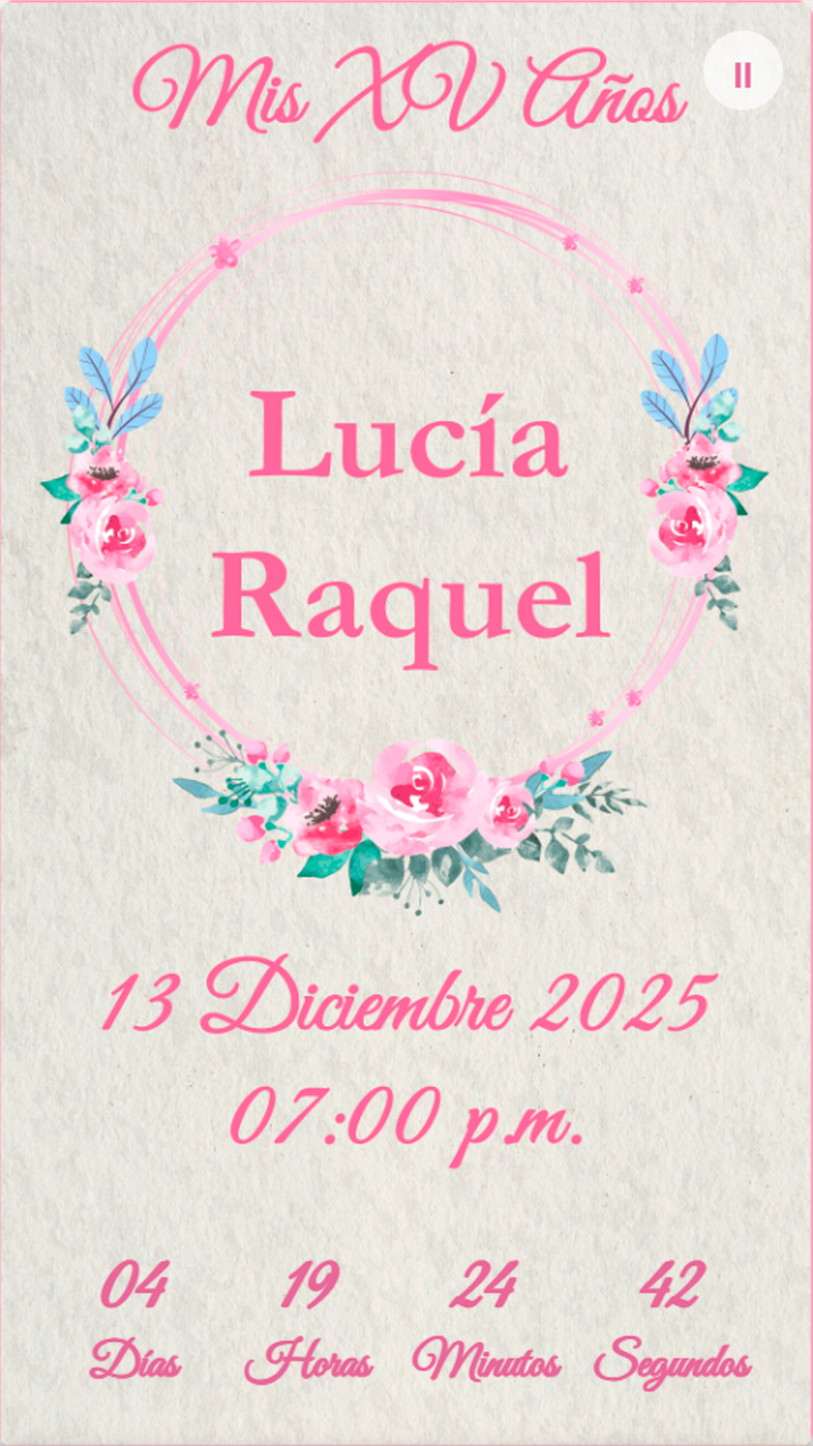
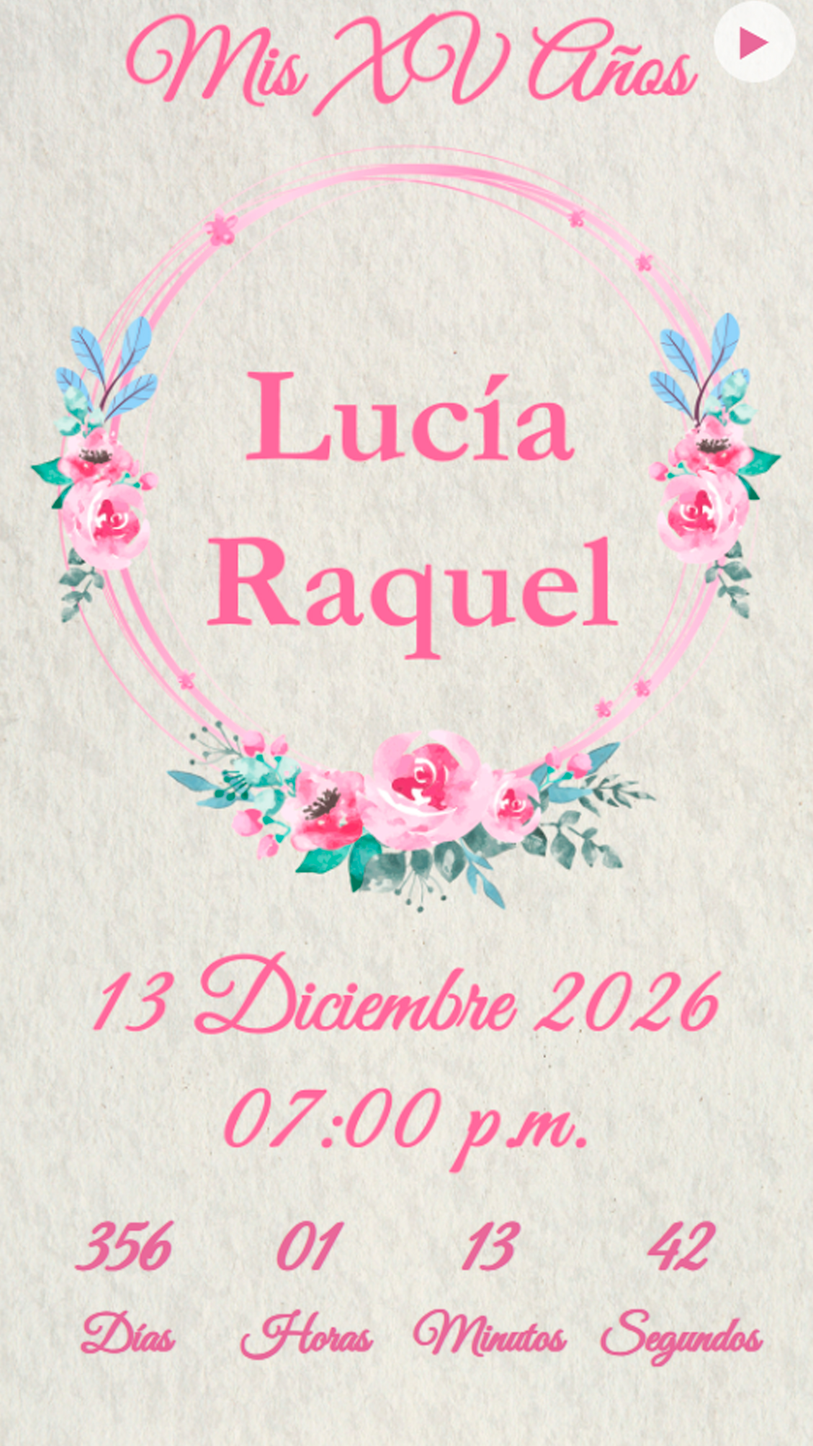
Add files via upload

diff --git a/index.html b/index.html
@@ -442,7 +442,7 @@
     // Contador
     const d=document.getElementById('dias'),h=document.getElementById('horas'),m=document.getElementById('minutos'),s=document.getElementById('segundos'),z=v=>v<10?'0'+v:v;
     function tick(){
-      const fechaEvento=new Date('2025-12-13T19:00:00');
+      const fechaEvento=new Date('2026-12-13T19:00:00');
       let r=Math.max(0,fechaEvento-Date.now());
       d.textContent=z(Math.floor(r/86400000));
       h.textContent=z(Math.floor((r%86400000)/3600000));
